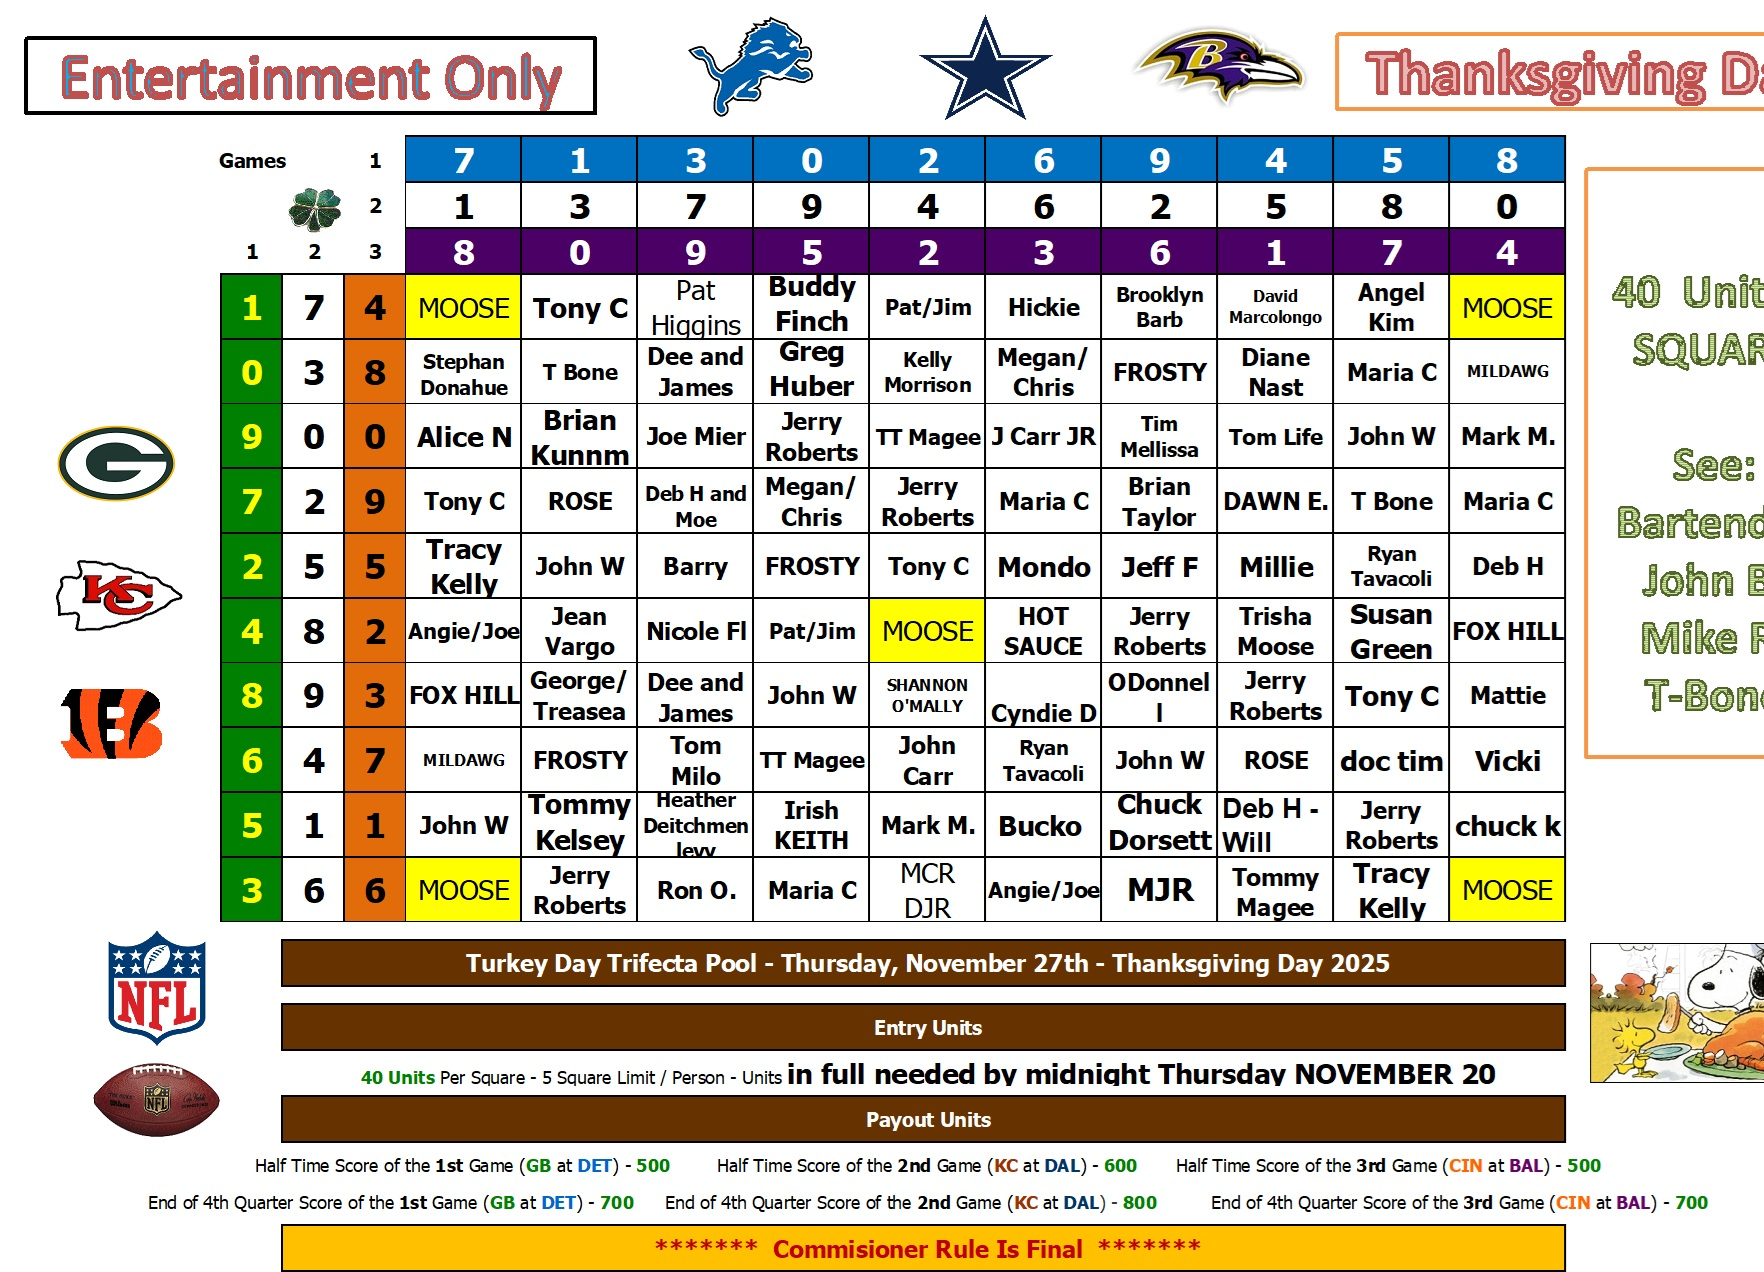
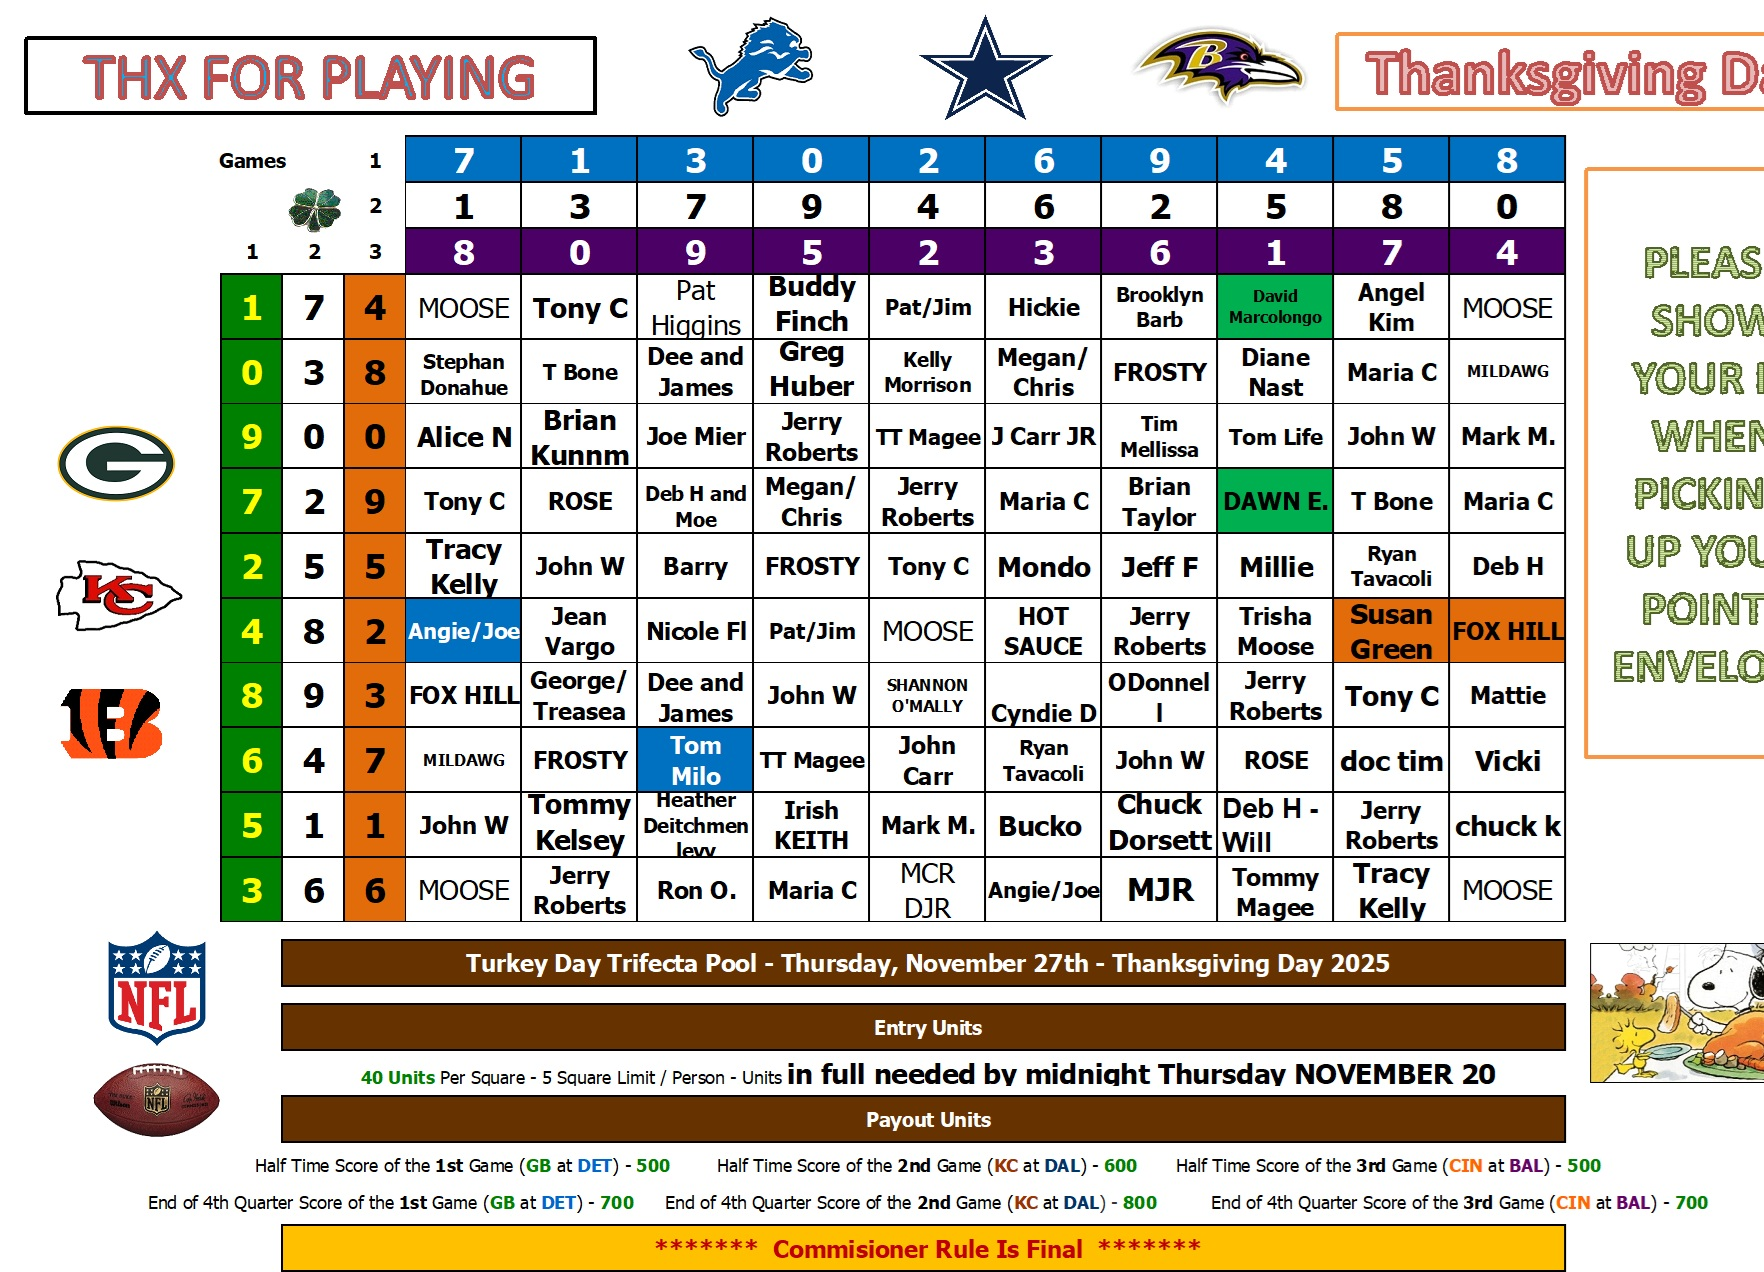
Add files via upload

diff --git a/index.html b/index.html
@@ -49,6 +49,29 @@
     .button:hover {
       background-color: #8c5436;
     }
+
+    /* New section styling */
+    .calendar-box {
+      margin-top: 50px;
+      padding: 30px;
+      background-color: #fffaf5;
+      border: 3px solid #6b3e26;
+      border-radius: 15px;
+      box-shadow: 0 4px 12px rgba(0,0,0,0.2);
+      max-width: 500px;
+      margin-left: auto;
+      margin-right: auto;
+    }
+
+    .calendar-box .button {
+      margin-top: 10px;
+    }
+
+    /* New section styling */
+    .section {
+      margin-top: 40px;
+    }
+
     footer {
       background-color: #6b3e26;
       color: white;
@@ -79,11 +102,22 @@
 </head>
 <body>
   <header>Moose Lodge 2010</header>
+
   <main>
     <img src="Thxgpool.jpg" alt="Moose Lodge 2010 Thanksgiving Pool">
-    <br>
-    <button class="button" onclick="location.href='Calendar.html'">View Calendar</button>
+    
+
+    <!-- New Winners Section -->
+    <div class="section">
+      <h2>2025 Winners</h2>
+      <img src="winners.jpg" alt="2025 Winners">
+    </div>
+    <div class="calendar-box">
+      <h3>Check Out Our Upcoming Events</h3>
+      <button class="button" onclick="location.href='Calendar.html'">View Calendar</button>
+    </div>
   </main>
+
   <footer>
     <p>Moose Lodge 2010 • Thanksgiving Day Trifecta Pool 2025</p>
     <p>Visit us on Facebook: <a href="#">https://www.facebook.com/PBGMooseLodge</a></p>
